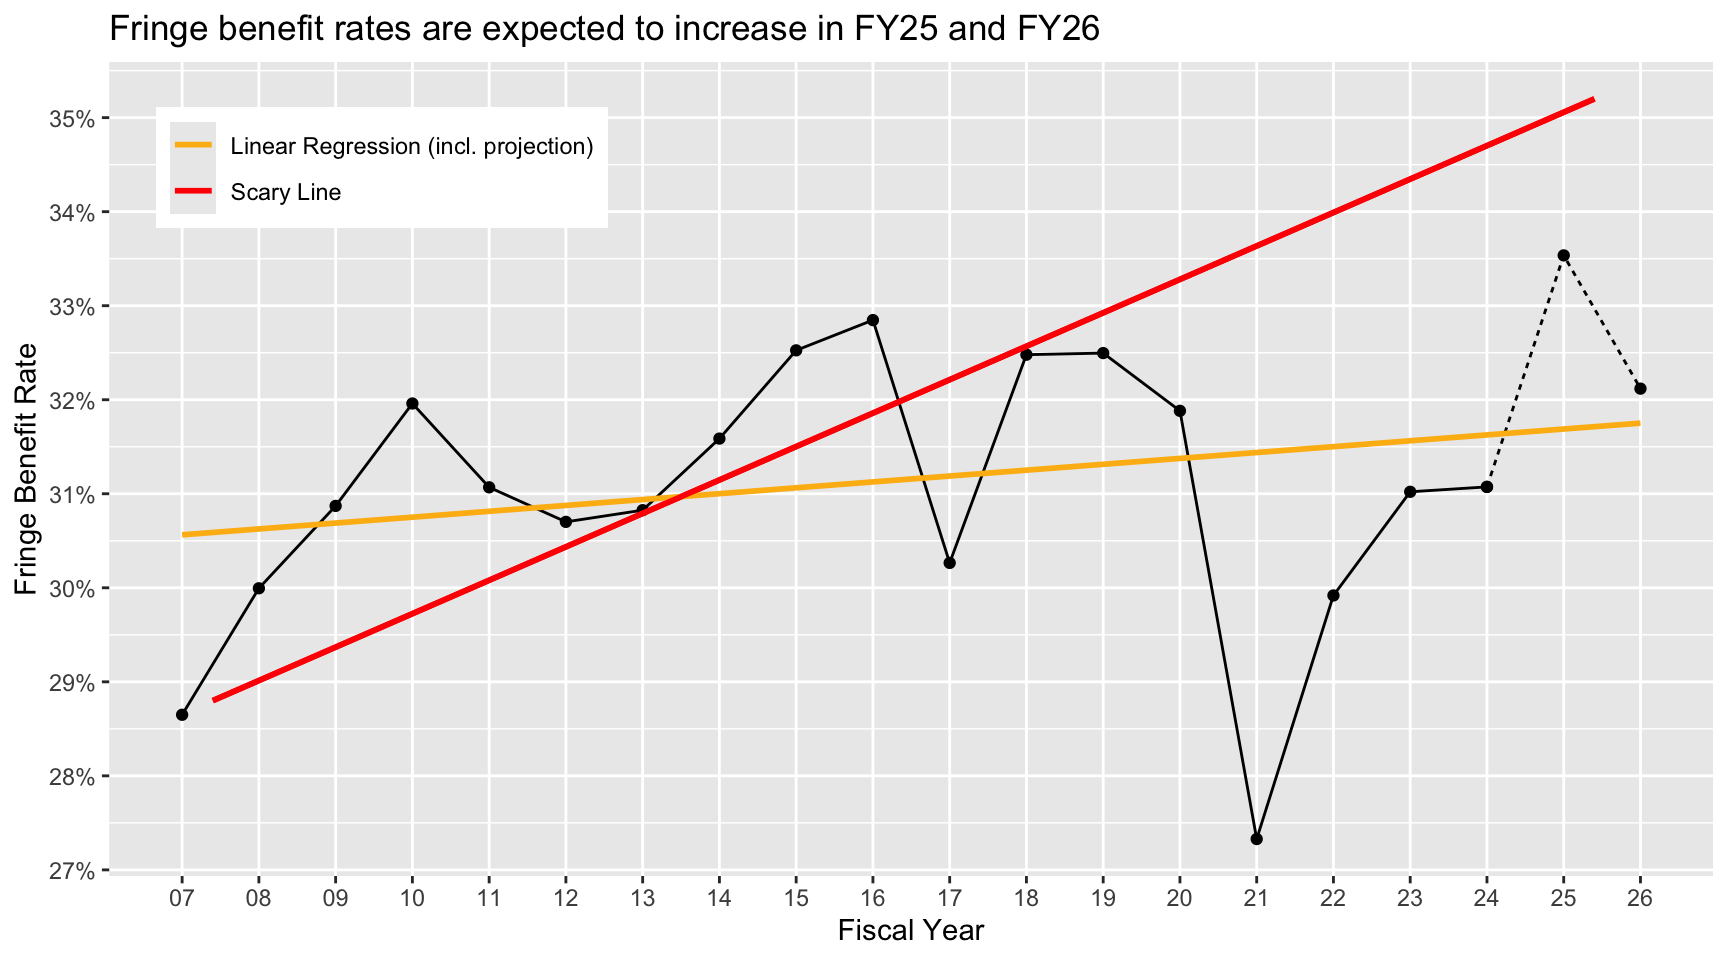
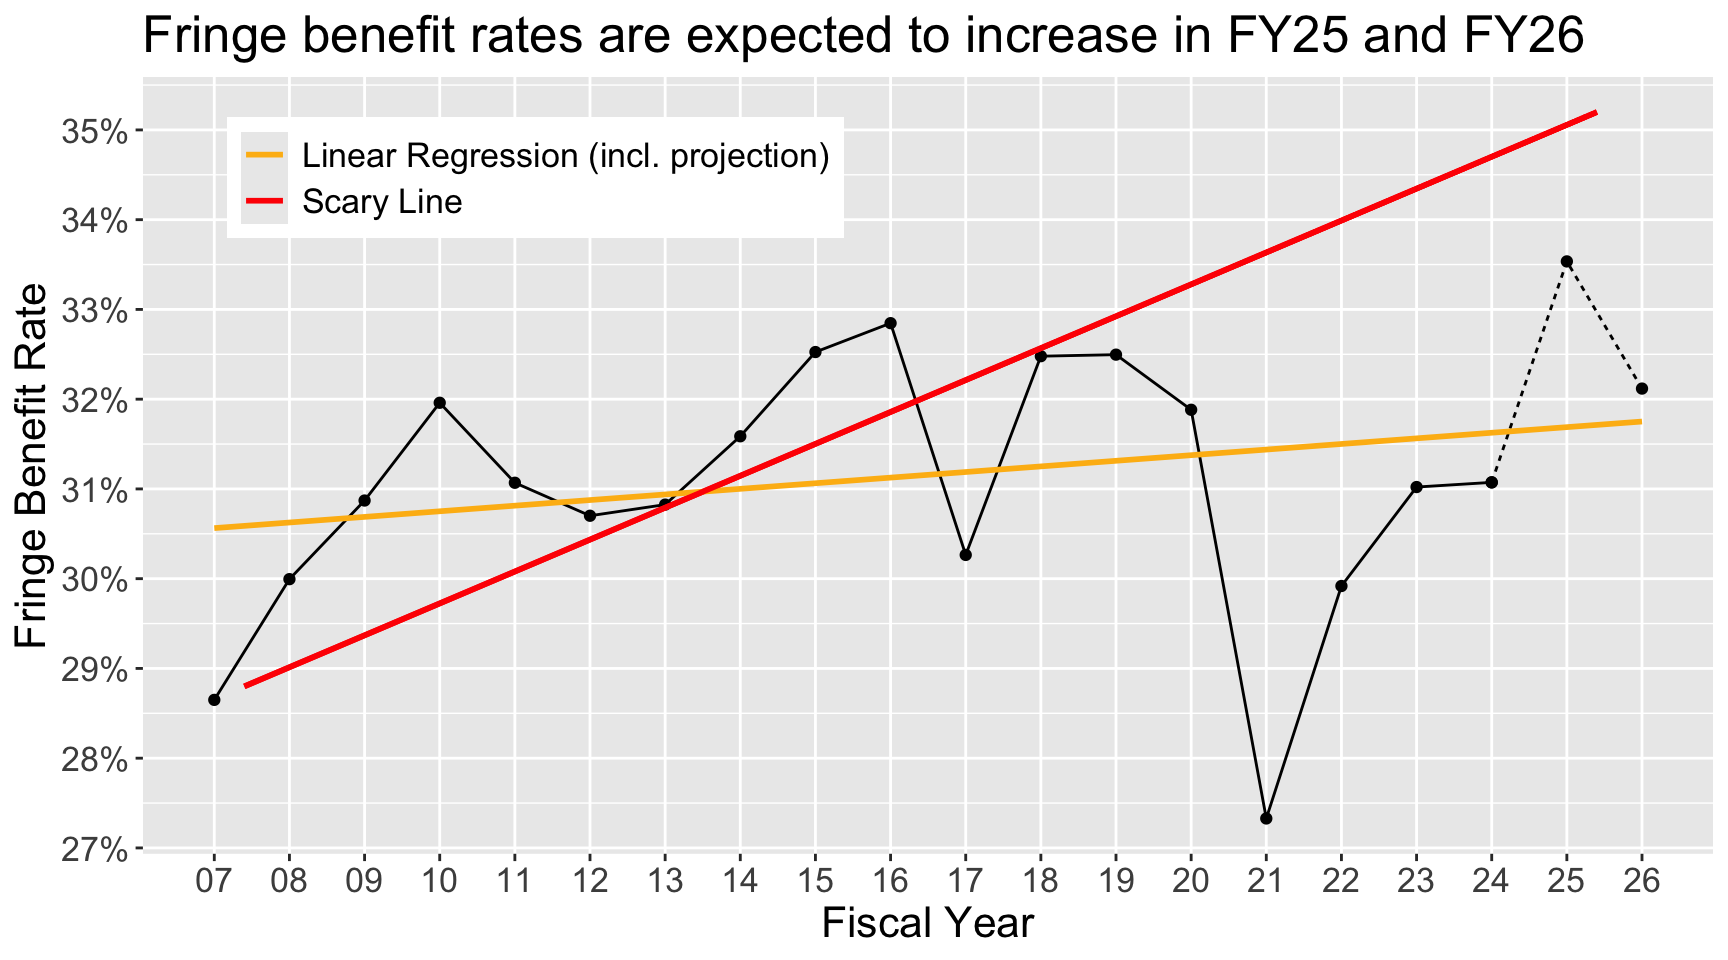
add content

Changed region(s): [[0.0, 0.0, 1.0, 1.0], [0.8125, 0.6875, 0.9688, 0.75]]

diff --git a/docs/a-lesson-in-visualization.html b/docs/a-lesson-in-visualization.html
@@ -6,6 +6,7 @@
 
 <meta name="viewport" content="width=device-width, initial-scale=1.0, user-scalable=yes">
 
+<meta name="dcterms.date" content="2025-10-22">
 
 <title>Making Decisions Based in Data and Supported by Visualization – Ariana Mendible</title>
 <style>
@@ -145,6 +146,12 @@ ul.task-list li input[type="checkbox"] {
 <div class="quarto-title-meta column-page-left">
 
     
+    <div>
+    <div class="quarto-title-meta-heading">Published</div>
+    <div class="quarto-title-meta-contents">
+      <p class="date">October 22, 2025</p>
+    </div>
+  </div>
   
     
   </div>
@@ -165,18 +172,18 @@ ul.task-list li input[type="checkbox"] {
 </section>
 <section id="misleading-visualization-a-case-study" class="level2">
 <h2 class="anchored" data-anchor-id="misleading-visualization-a-case-study">Misleading Visualization: A Case Study</h2>
-<p>When I teach this class, we spend lots of time discussing ways to not mislead viewers. I would like to critically delve into one particular visualization to break down some of these areas, discuss the harm these misleading elements cause, and suggest improvements to the visualiation. This visual was presented by administrators at a faculty meeting discussing employee benefits and was being used in budget planning. Specifically, the plot shows the change over time in fringe benefit rate. Fringe benefit rate would be computed as the ratio of non-salary compensation (such as health insurance, retirement, and tution remission) to overall compensation. For example, if my salary were $70,000 and my benefits totalled to $30,000, my fringe benefit rate would be 30%.</p>
+<p>When I teach this class, we spend lots of time discussing ways to not mislead viewers. I would like to critically delve into one particular visualization to break down some of these areas, discuss the harm these misleading elements cause, and suggest improvements to the visualiation. This visual was presented by university administrators at a faculty meeting discussing budget planning around employee benefits. Specifically, the plot shows the change over time in fringe benefit rate. Fringe benefit rate would be computed as the ratio of non-salary compensation (such as health insurance, retirement, and tution remission) to overall compensation. For example, if my salary were $70,000 and my benefits totalled to $30,000, my fringe benefit rate would be 30%.</p>
 <div class="quarto-figure quarto-figure-center">
 <figure class="figure">
-<p><img src="assets/img/original_plot.JPG" class="img-fluid figure-img"></p>
+<p><img src="assets/img/original_plot.JPG" class="img-fluid figure-img" alt="A line plot showing how fringe benefit rates change from FY07 to FY26. The rate fluctuates over time with a very slight upward trend. A thick red arrow is overlaid with a steeply increasing angle."></p>
 <figcaption>A screenshot of the original visualization, showing the change in fringe benefit rates from fiscal years 2007-2026.<a href="#fn1" class="footnote-ref" id="fnref1" role="doc-noteref"><sup>1</sup></a></figcaption>
 </figure>
 </div>
-<p>There are a number of critiques I would take with this graphic if this were presented as a homework submission by a student, but I will focus on the areas in which this graphic is <em>misleading</em> (read: wrong). Some appear to be intentional, meaning a biased story is being presented as fact, and some are likely not, meaning the way the graphic is designed might encourage assumptions that are incorrect. Since I want readers to learn from this, I will also remake and correct the plot as we go.</p>
+<p>There are a number of critiques I would take with this graphic if this were presented as a homework submission by a student, but I will focus on the areas in which this graphic is <em>misleading</em> (read: wrong). Some appear to be intentional, meaning a biased story is being presented as fact, and some are likely not, meaning the way the graphic is designed might encourage assumptions that are incorrect. I am putting this together not as a complaint but as an opportunity for learning<a href="#fn2" class="footnote-ref" id="fnref2" role="doc-noteref"><sup>2</sup></a>, so I will walk through suggested changes as I go.</p>
 <ol type="1">
 <li>The text callout for FY25 reads “Highest ever projected Fringe Benefit Rate (35%)”, but the data point showing the projection is clearly under the 34% grid line.</li>
-<li>The values for FY25 and FY26 are projections, but are displayed identically to the known values.</li>
-<li>The glaring red line showing a huge increase in the fringe benefit rate over time is… suspicious. This warrants further investigation.</li>
+<li>The values for FY25 and FY26 are projections, but the line plot display them identically to the known values.</li>
+<li>The glaring red line showing a huge increase in the fringe benefit rate over time is… curious. This warrants further investigation.</li>
 </ol>
 <section id="design-changes" class="level3">
 <h3 class="anchored" data-anchor-id="design-changes">Design Changes</h3>
@@ -190,11 +197,11 @@ ul.task-list li input[type="checkbox"] {
 </div>
 </div>
 </div>
-<p>Here I have addressed points 1 and 2. I changed the FY25 and FY26 values to dotted lines, which signals to the viewer that this data is a projection rather than known data. I have also tied the text callout to the data itself, so if my numbers updated, so would my plot without having to plan or think. I also made some minor design adjustments to improve the plot’s readability<a href="#fn2" class="footnote-ref" id="fnref2" role="doc-noteref"><sup>2</sup></a>.</p>
+<p>Here I have addressed points 1 and 2. I changed the FY25 and FY26 values to dotted lines, which signals to the viewer that this data is a projection rather than known data. I have also tied the text callout to the data itself, so if my numbers updated, so would my plot without having to plan or think. I also made some minor design adjustments to improve the plot’s readability<a href="#fn3" class="footnote-ref" id="fnref3" role="doc-noteref"><sup>3</sup></a>.</p>
 </section>
 <section id="predicting-new-values" class="level3">
 <h3 class="anchored" data-anchor-id="predicting-new-values">Predicting New Values</h3>
-<p>Now to investigate the final issue with the plot: the red line. To an innocent viewer, the line seems to be a “best fit” of the data, or linear regression. This would be a very useful way to summarize the pattern shown. For comparison, let’s see what a real linear regression looks like compared to the red line.</p>
+<p>Now to investigate the final issue with the plot: the red line. To an innocent viewer, the line seems to be a “best fit” of the data, or linear regression. This would be a very useful way to summarize the pattern shown. For comparison, let’s see what a real linear regression looks like compared to the red line<a href="#fn4" class="footnote-ref" id="fnref4" role="doc-noteref"><sup>4</sup></a>.</p>
 <div class="cell">
 <div class="cell-output-display">
 <div>
@@ -204,7 +211,7 @@ ul.task-list li input[type="checkbox"] {
 </div>
 </div>
 </div>
-<p>Interesting! The linear regression, based on the real data from FY07-FY24, shows only a moderate increase in the fringe benefit rates, much smaller than the red line would indicate. The slope for this linear regression is 0.018, meaning the fringe benefit rate increases by about 0.018%<a href="#fn3" class="footnote-ref" id="fnref3" role="doc-noteref"><sup>3</sup></a> per year over this time. This is compared to the slope of the red line, which works out to be 0.356, or a 0.356%<a href="#fn4" class="footnote-ref" id="fnref4" role="doc-noteref"><sup>4</sup></a> increase per year over this time. Comparing the two values, the slope of the red line is about 19 times steeper than that of the true linear regression!</p>
+<p>Interesting! The linear regression, based on the real data from FY07-FY24, shows only a moderate increase in the fringe benefit rates, much smaller than the red line would indicate. The slope for this linear regression is 0.018, meaning the fringe benefit rate increases by about 0.018%<a href="#fn5" class="footnote-ref" id="fnref5" role="doc-noteref"><sup>5</sup></a> per year over this time. This is compared to the slope of the red line, which works out to be 0.356, or a 0.356%<a href="#fn6" class="footnote-ref" id="fnref6" role="doc-noteref"><sup>6</sup></a> increase per year over this time. Comparing the two values, the slope of the red line is about 19 times steeper than that of the true linear regression!</p>
 <p>I also want to give the benefit of the doubt again, perhaps this red line is based instead on <em>all</em> the values, including the projected one? I tried this as well, and unfortunately though the slope has increases, it is still nowhere near the red line– the slope is now 0.063.</p>
 <div class="cell">
 <div class="cell-output-display">
@@ -218,7 +225,13 @@ ul.task-list li input[type="checkbox"] {
 </section>
 <section id="reverse-engineering" class="level3">
 <h3 class="anchored" data-anchor-id="reverse-engineering">Reverse Engineering</h3>
-<p>Here is what I really think happened: the line was drawn to simply connect the earliest and latest reasonable data points, which by some record included a projection for 35% in FY25. I am not certain if the projection for FY25 was either originally 35% and then amended, mistakenly marked as 35% because the line automatically snapped to a whole number, or some other reason. If the purpose of the line is to show the increase from FY07-25, then two horizontal lines highlighting this <strong>vertical</strong> gap would be appropriate. Using a sloped line to show this change insinuates to the viewer that the angle is important and unbiased, when in fact it is subject to extreme changes in the time choice. See a few examples below where I have varied the time windows to see how the angle of the line, now drawn between earliest and latest data, tells a very different story in each. So, why the choice of line from FY07-FY25?</p>
+<p>Here is what I really think happened: the line was drawn to simply connect the earliest and latest reasonable data points, which by some record included a projection for 35% in FY25. I am not certain if the projection for FY25 was either originally 35% and then amended, mistakenly marked as 35% because the line automatically snapped to a whole number, or some other reason. If the purpose of the line is to show the increase from FY07-25, then two horizontal lines highlighting this <strong>vertical</strong> gap would be appropriate. Using a sloped line to show this change insinuates to the viewer that the angle is important and unbiased, when in fact it is subject to extreme changes in the time choice. See a few examples below where I have varied the time windows to see how the angle of the line, now drawn between earliest and latest data, tells a very different story in each. I could conclude any of the following based off the graphs:</p>
+<ol type="a">
+<li>The fringe benefit rate has decreased somewhat over the past 15 fiscal years.</li>
+<li>The fringe benefit rate has decreased somewhat over the past 10 fiscal years.</li>
+<li>We are on track to have a moderate increase in fringe benefit rates this fiscal year compared to 5 years ago.</li>
+<li>We are on track to have a significant increase in fringe benefit rates this fiscal year compared to 4 years ago.</li>
+</ol>
 <div class="cell">
 <div class="cell-output-display">
 <div>
@@ -228,12 +241,23 @@ ul.task-list li input[type="checkbox"] {
 </div>
 </div>
 </div>
+<p>So, why the choice of line from FY07-FY25? Maybe this is the earliest year data was available, or perhaps this was a concious choice made by the author of the plot. Any choice of time scale is justifiable and reasonable, I am not saying some are true and some are lies. However, presenters should be aware that they affect the story depending on choices like axes limits and scales. This is another reason why using linear regression would be a better strategy– the story would not change so significantly if the time scale were off by a handful of years. Including a confidence interval would also show the audience that even though the line might look conclusive, we actually could be very off in our estimate of change. My ultimate version of the plot would look like the following:</p>
+<div class="cell">
+<div class="cell-output-display">
+<div>
+<figure class="figure">
+<p><img src="a-lesson-in-visualization_files/figure-html/unnamed-chunk-6-1.png" class="img-fluid figure-img" width="864"></p>
+</figure>
+</div>
+</div>
+</div>
+<p>This plot shows the data exactly: the observed values are clearly different from the predicted values, sound statistics are used to show the historical trend, and a confidence interval shows that the FY25 rates are in fact higher than we could have expected based on the trend. The title also shares the main conclusion, which I believe is true to the plots’ original intention: FY25 fringe benefits are more expensive than normal. It would be important to know how the projections for FY25 and FY26 were computed. I have no doubt (and sincerely hope) that these are estimated by a model more sophisticated than linear regression.</p>
 </section>
 </section>
 <section id="please-show-your-work" class="level2">
 <h2 class="anchored" data-anchor-id="please-show-your-work">Please Show Your Work</h2>
 <p>Of course, there is a limit to how clear and unbiased one can be. The audience may still take a different message away from a plot than what was intended. It is also necessary to make some choices that will impact numbers and visuals, like the starting time of the plot for example. My request to institutional decision-makers is no more than I would expect from my students– where there is choice, nuance, and uncertainty: <strong>please show your work</strong>. Let me know where you obtained the data, what assumptions you made (with justification!), and the process you used to obtain your solutions.</p>
-<p>There have been an increasing number of errors and omissions like this, both in visualization and in the presentation of statistics, shared from the highest leadership at the university. In almost every university-level talk I have attended where visualizations or numbers are shared I see at least one instance of poor data communication. Incorrect and misleading visualizations, inaccessible graphics, and indigestibly large tables instead of a thoughtful graphic are all common. In some situations, claims completely unsupported by any data are touted as facts. These presentations, numbers and conclusions are used to make decisions that impact hundreds of jobs and educational journeys. Misleading the audience to think that these conclusions are supported in the data is simply unacceptable.</p>
+<p>There have been an increasing number of errors and omissions like this, both in visualization and in the presentation of statistics, shared from the highest leadership at the university. In nearly every university-level data presentation I have attended, I see at least one instance of extremely poor data communication. Incorrect and misleading visualizations, inaccessible graphics, and indigestibly large tables instead of a thoughtful graphic are all common. In some situations, claims completely unsupported by any data are touted as facts. Whether it is from a lack of knowledge of best practices or simply a lack of concern for correctness and clarity, I implore administrators to do better.<a href="#fn7" class="footnote-ref" id="fnref7" role="doc-noteref"><sup>7</sup></a> These presentations, numbers and conclusions are used to make decisions that impact thousands of jobs and educational journeys. Misleading the audience to think that these conclusions are supported in the data is simply unacceptable.</p>
 
 
 </section>
@@ -243,9 +267,12 @@ ul.task-list li input[type="checkbox"] {
 
 <ol>
 <li id="fn1"><p>I scraped the data from this visualization using <a href="www.plotdigitizer.com">Plot Digitizer</a>, which allows you to set the scale of your plot and select data points to extract. I extracted the start and end of the red line as well as each each fringe rate from the blue line, and rounded the years to be integers 7-26. No other preprocessing was done. There will be a small amount of error with this. If someone is able to provide the original data, I would be happy to correct this with exact values. All computations are tied to my code so it can be easily updated.<a href="#fnref1" class="footnote-back" role="doc-backlink">↩</a></p></li>
-<li id="fn2"><p>I adjusted the y-axes limits to be zoom into the data, maximizing how the plot space is used, and added extra grid lines for more accurate readability. I edited the x-axis tick labels by removing the “FY”, which increases the <a href="https://jtr13.github.io/cc19/tuftes-principles-of-data-ink.html">data-ink ratio</a>, turning the labels horizontal for readability, and including tick marks to place the year more accurately. I also added a descriptive title to tell the audience explicitly what I want them to understand, which will decrease the chances that they make alternative conclusions or miss the main point.<a href="#fnref2" class="footnote-back" role="doc-backlink">↩</a></p></li>
-<li id="fn3"><p>Be careful to note that <em>percent</em> here is in line with the original variable, <code>percent benefit as compared to salary</code>, not percentage increase of the rate compared to the previous year. Therefore, we should interpret this as in this example: if in FY24 the fringe benefit rate is 31.1%, this linear regression would predict the FY21 fringe benefit rate to be 31.118%.<a href="#fnref3" class="footnote-back" role="doc-backlink">↩</a></p></li>
-<li id="fn4"><p>Unfortunately, this percent may also be confusing as it is very similar to the listed projected benefit rate. Again, if in FY24 the benefit rate is 31.1%, the projection would now be 31.456.<a href="#fnref4" class="footnote-back" role="doc-backlink">↩</a></p></li>
+<li id="fn2"><p>I am not ignorant of how this post may come across to administrators (and am acutely aware of my position here as non-tenured faculty). I want to emphasize that my goal here is to encourage better data practices in decision-making. If you have comments or concerns about what I have shared, please share them with me via email.<a href="#fnref2" class="footnote-back" role="doc-backlink">↩</a></p></li>
+<li id="fn3"><p>I adjusted the y-axes limits to be zoom into the data, maximizing how the plot space is used, and added extra grid lines for more accurate readability. I edited the x-axis tick labels by removing the “FY”, which increases the <a href="https://jtr13.github.io/cc19/tuftes-principles-of-data-ink.html">data-ink ratio</a>, turning the labels horizontal for readability, and including tick marks to place the year more accurately. I also added a descriptive title to tell the audience explicitly what I want them to understand, which will decrease the chances that they make alternative conclusions or miss the main point.<a href="#fnref3" class="footnote-back" role="doc-backlink">↩</a></p></li>
+<li id="fn4"><p>Best practices would have us include a confidence interval, which I have intentionally omitted here to keep the discussion as simple as possible.<a href="#fnref4" class="footnote-back" role="doc-backlink">↩</a></p></li>
+<li id="fn5"><p>Be careful to note that <em>percent</em> here is in line with the original variable, <code>percent benefit as compared to salary</code>, not percentage increase of the rate compared to the previous year. Therefore, we should interpret this as in this example: if in FY24 the fringe benefit rate is 31.1%, this linear regression would predict the FY21 fringe benefit rate to be 31.118%.<a href="#fnref5" class="footnote-back" role="doc-backlink">↩</a></p></li>
+<li id="fn6"><p>Unfortunately, this percent may also be confusing as it is very similar to the listed projected benefit rate. Again, if in FY24 the benefit rate is 31.1%, the projection would now be 31.456.<a href="#fnref6" class="footnote-back" role="doc-backlink">↩</a></p></li>
+<li id="fn7"><p>Are you an administrator reading this and wanting to improve but not sure how? I would love to help form a plan for training so that these occurences decrease, please get in contact with me or another Data Science faculty colleague.<a href="#fnref7" class="footnote-back" role="doc-backlink">↩</a></p></li>
 </ol>
 </section></div></main> <!-- /main -->
 <script id="quarto-html-after-body" type="application/javascript">
